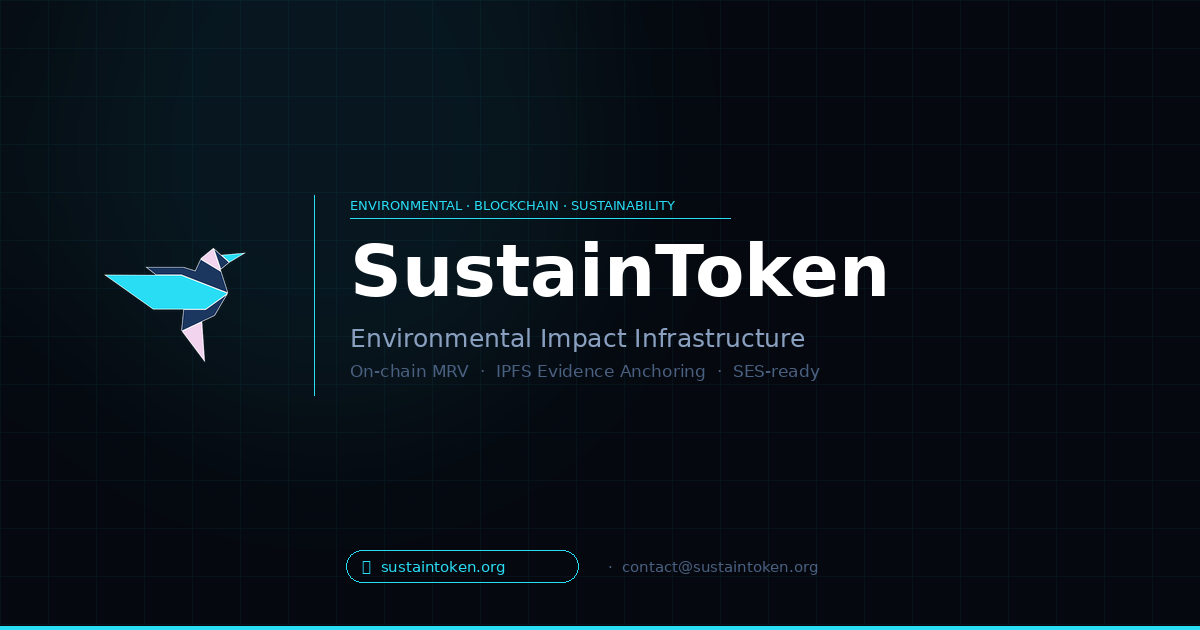
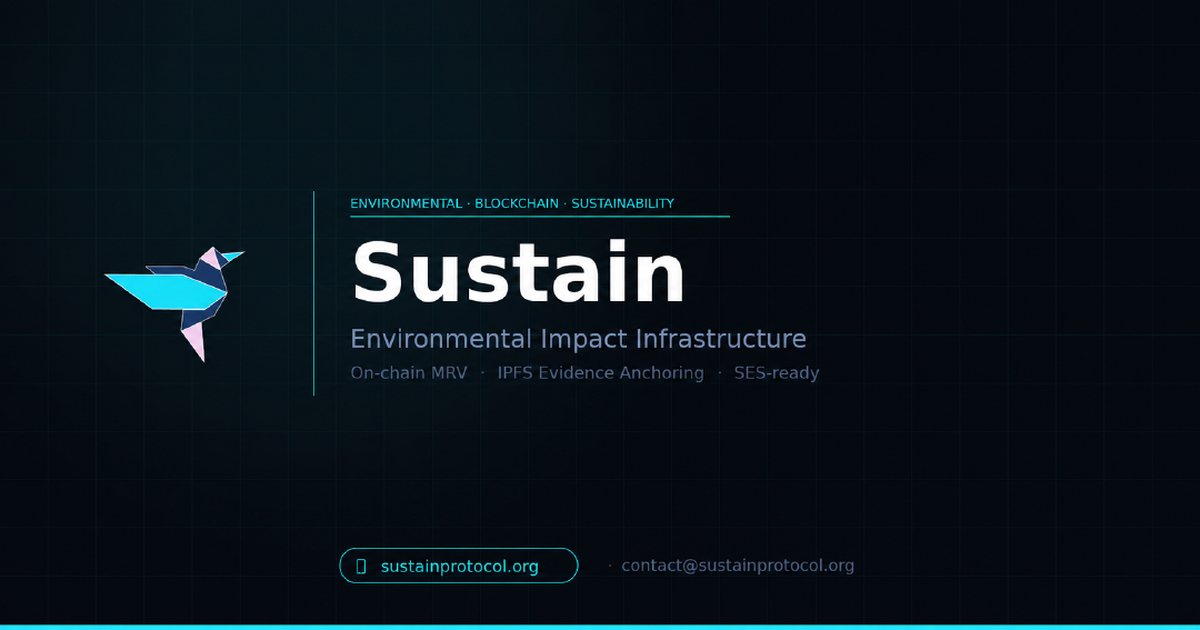
web: sustainprotocol.org y og-image nueva
7 referencias apuntaban todavía a sustaintoken.org, incluida og:image.
La imagen vieja seguía en public/ y Vite copia public/ tal cual, por eso
la build la reponía en cada dist.

Pendiente menor: la PNG pesa 499 KB. Conviene reexportarla desde el
diseño original antes de que la lea un crawler.

diff --git a/index.html b/index.html
@@ -10,16 +10,16 @@
     <link rel="icon" href="/favicon.svg" type="image/svg+xml" />
 
     <!-- Canonical -->
-    <link rel="canonical" href="https://sustaintoken.org/" />
+    <link rel="canonical" href="https://sustainprotocol.org/" />
 
     <!-- Open Graph (WhatsApp, LinkedIn, Facebook) -->
     <meta property="og:type" content="website" />
-    <meta property="og:url" content="https://sustaintoken.org/" />
+    <meta property="og:url" content="https://sustainprotocol.org/" />
     <meta property="og:site_name" content="Sustain" />
     <meta property="og:title" content="Sustain — Environmental Impact Infrastructure" />
     <meta property="og:description" content="Infraestructura blockchain para impacto ambiental verificable. MRV on-chain, anclaje de evidencia en IPFS y reportes listos para SES." />
-    <meta property="og:image" content="https://sustaintoken.org/og-image.png" />
-    <meta property="og:image:secure_url" content="https://sustaintoken.org/og-image.png" />
+    <meta property="og:image" content="https://sustainprotocol.org/og-image.png" />
+    <meta property="og:image:secure_url" content="https://sustainprotocol.org/og-image.png" />
     <meta property="og:image:type" content="image/png" />
     <meta property="og:image:width" content="1200" />
     <meta property="og:image:height" content="630" />
@@ -29,14 +29,14 @@
 
     <!-- Twitter / X -->
     <meta name="twitter:card" content="summary_large_image" />
-    <meta name="twitter:url" content="https://sustaintoken.org/" />
+    <meta name="twitter:url" content="https://sustainprotocol.org/" />
     <meta name="twitter:title" content="Sustain — Environmental Impact Infrastructure" />
     <meta name="twitter:description" content="Infraestructura blockchain para impacto ambiental verificable. MRV on-chain, anclaje de evidencia en IPFS y reportes listos para SES." />
-    <meta name="twitter:image" content="https://sustaintoken.org/og-image.png" />
+    <meta name="twitter:image" content="https://sustainprotocol.org/og-image.png" />
     <meta name="twitter:image:alt" content="Sustain — Environmental Impact Infrastructure" />
 
     <!-- Contact -->
-    <meta name="reply-to" content="contact@sustaintoken.org" />
+    <meta name="reply-to" content="contact@sustainprotocol.org" />
 
     <link rel="preconnect" href="https://fonts.googleapis.com" />
     <link rel="preconnect" href="https://fonts.gstatic.com" crossorigin />

diff --git a/src/components/Contact.jsx b/src/components/Contact.jsx
@@ -16,7 +16,7 @@ export default function Contact() {
             <a href="#pilot-form" className="btn btn--primary btn--large">
               {t('contact.btnPilot')}
             </a>
-            <a href="mailto:contact@sustaintoken.org" className="btn btn--ghost btn--large">
+            <a href="mailto:contact@sustainprotocol.org" className="btn btn--ghost btn--large">
               {t('contact.btnDev')}
             </a>
             <a href="#resources" className="btn btn--ghost btn--large">

diff --git a/src/components/Footer.jsx b/src/components/Footer.jsx
@@ -29,7 +29,7 @@ export default function Footer() {
             ))}
           </ul>
           <div className="footer-copy">
-            © 2026 <a href="https://sustaintoken.org/" style={{ color: 'inherit' }}>SustainToken.org</a> · <span>{t('footer.copy')}</span>
+            © 2026 <a href="https://sustainprotocol.org/" style={{ color: 'inherit' }}>SustainProtocol.org</a> · <span>{t('footer.copy')}</span>
           </div>
           <a
             href="https://www.posicionarte.online/"
